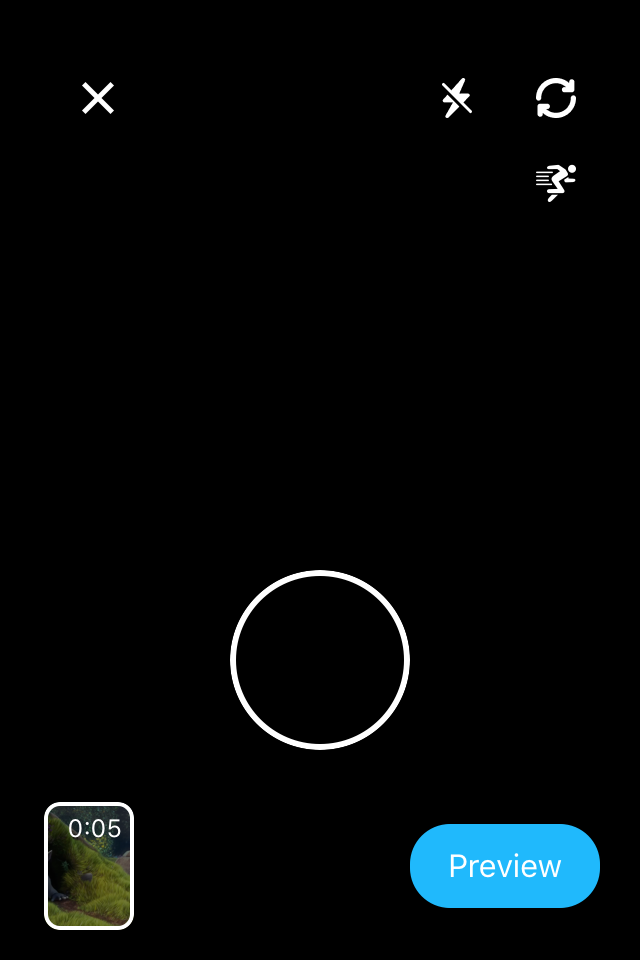
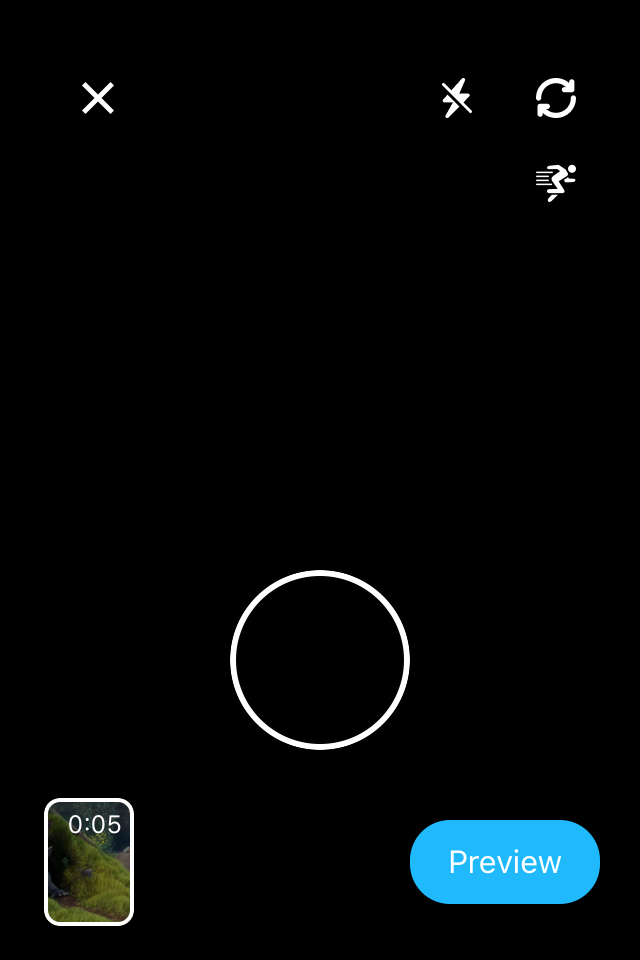
Fix of margins

Changed region(s): [[0.6562, 0.8438, 0.9375, 0.9688], [0.0625, 0.8125, 0.2188, 0.9688], [0.9062, 0.9062, 0.9375, 0.9375]]

diff --git a/Classes/MediaClips/MediaClipsEditorView.swift b/Classes/MediaClips/MediaClipsEditorView.swift
@@ -8,9 +8,9 @@ import Foundation
 import UIKit
 
 private struct MediaClipsEditorViewConstants {
-    static let verticalPadding: CGFloat = 10
+    static let topPadding: CGFloat = 8
+    static let bottomPadding: CGFloat = 12
     static let buttonHorizontalMargin: CGFloat = 20
-    static let collectionWidth: CGFloat = 255
     static let buttonRadius: CGFloat = 25
     static let buttonWidth: CGFloat = 95
     static let buttonHeight: CGFloat = 42
@@ -24,7 +24,9 @@ protocol MediaClipsEditorViewDelegate: class {
 /// View for media clips editor
 final class MediaClipsEditorView: IgnoreTouchesView {
     
-    static let height = MediaClipsCollectionView.height + MediaClipsEditorViewConstants.verticalPadding * 2
+    static let height = MediaClipsCollectionView.height +
+                        MediaClipsEditorViewConstants.topPadding +
+                        MediaClipsEditorViewConstants.bottomPadding
 
     let collectionContainer: IgnoreTouchesView
     let previewButton: UIButton
@@ -75,7 +77,7 @@ private extension MediaClipsEditorView {
             collectionContainer.trailingAnchor.constraint(equalTo: safeLayoutGuide.trailingAnchor,
                                                        constant: -trailingMargin),
             collectionContainer.bottomAnchor.constraint(equalTo: safeLayoutGuide.bottomAnchor,
-                                                        constant: -MediaClipsEditorViewConstants.verticalPadding),
+                                                        constant: -MediaClipsEditorViewConstants.bottomPadding),
             collectionContainer.heightAnchor.constraint(equalToConstant: MediaClipsCollectionView.height)
         ])
     }
